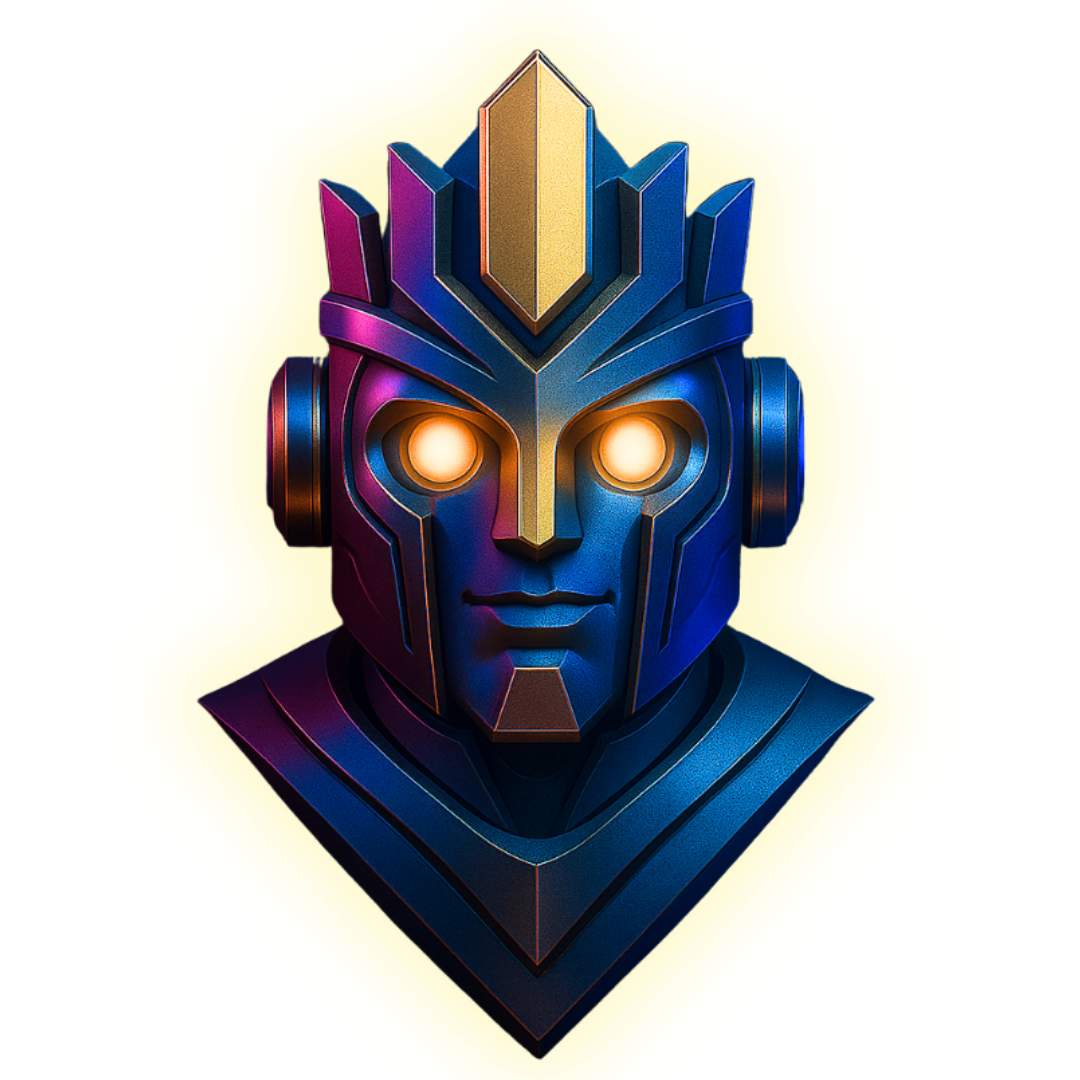
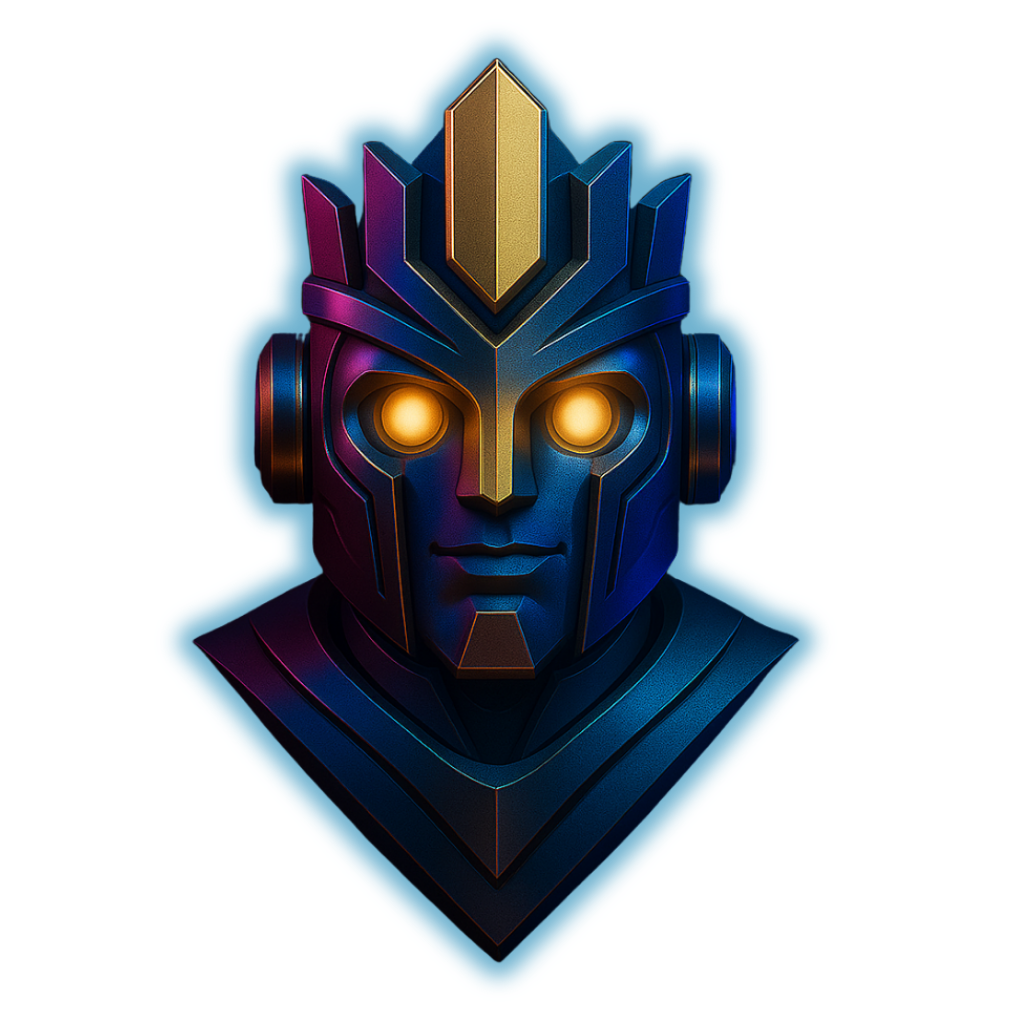
fix: update pricing card robot images — glow versions + size adjustments
- Replace Power and Omni images with glow variants
- Starter robot: 90px (smaller)
- Power and Omni robots: 140px (larger, more prominent)

diff --git a/src/components/marketing/pricing-section.tsx b/src/components/marketing/pricing-section.tsx
@@ -159,9 +159,11 @@ export function PricingSection({ showTrialButton = false }: PricingSectionProps)
                   <Image
                     src={planImages[tier]}
                     alt={`Redbot ${plan.name}`}
-                    width={120}
-                    height={120}
-                    className="w-28 h-28 object-contain drop-shadow-lg"
+                    width={tier === "basic" ? 90 : 140}
+                    height={tier === "basic" ? 90 : 140}
+                    className={`object-contain drop-shadow-lg ${
+                      tier === "basic" ? "w-[90px] h-[90px]" : "w-[140px] h-[140px]"
+                    }`}
                   />
                 </div>
 
